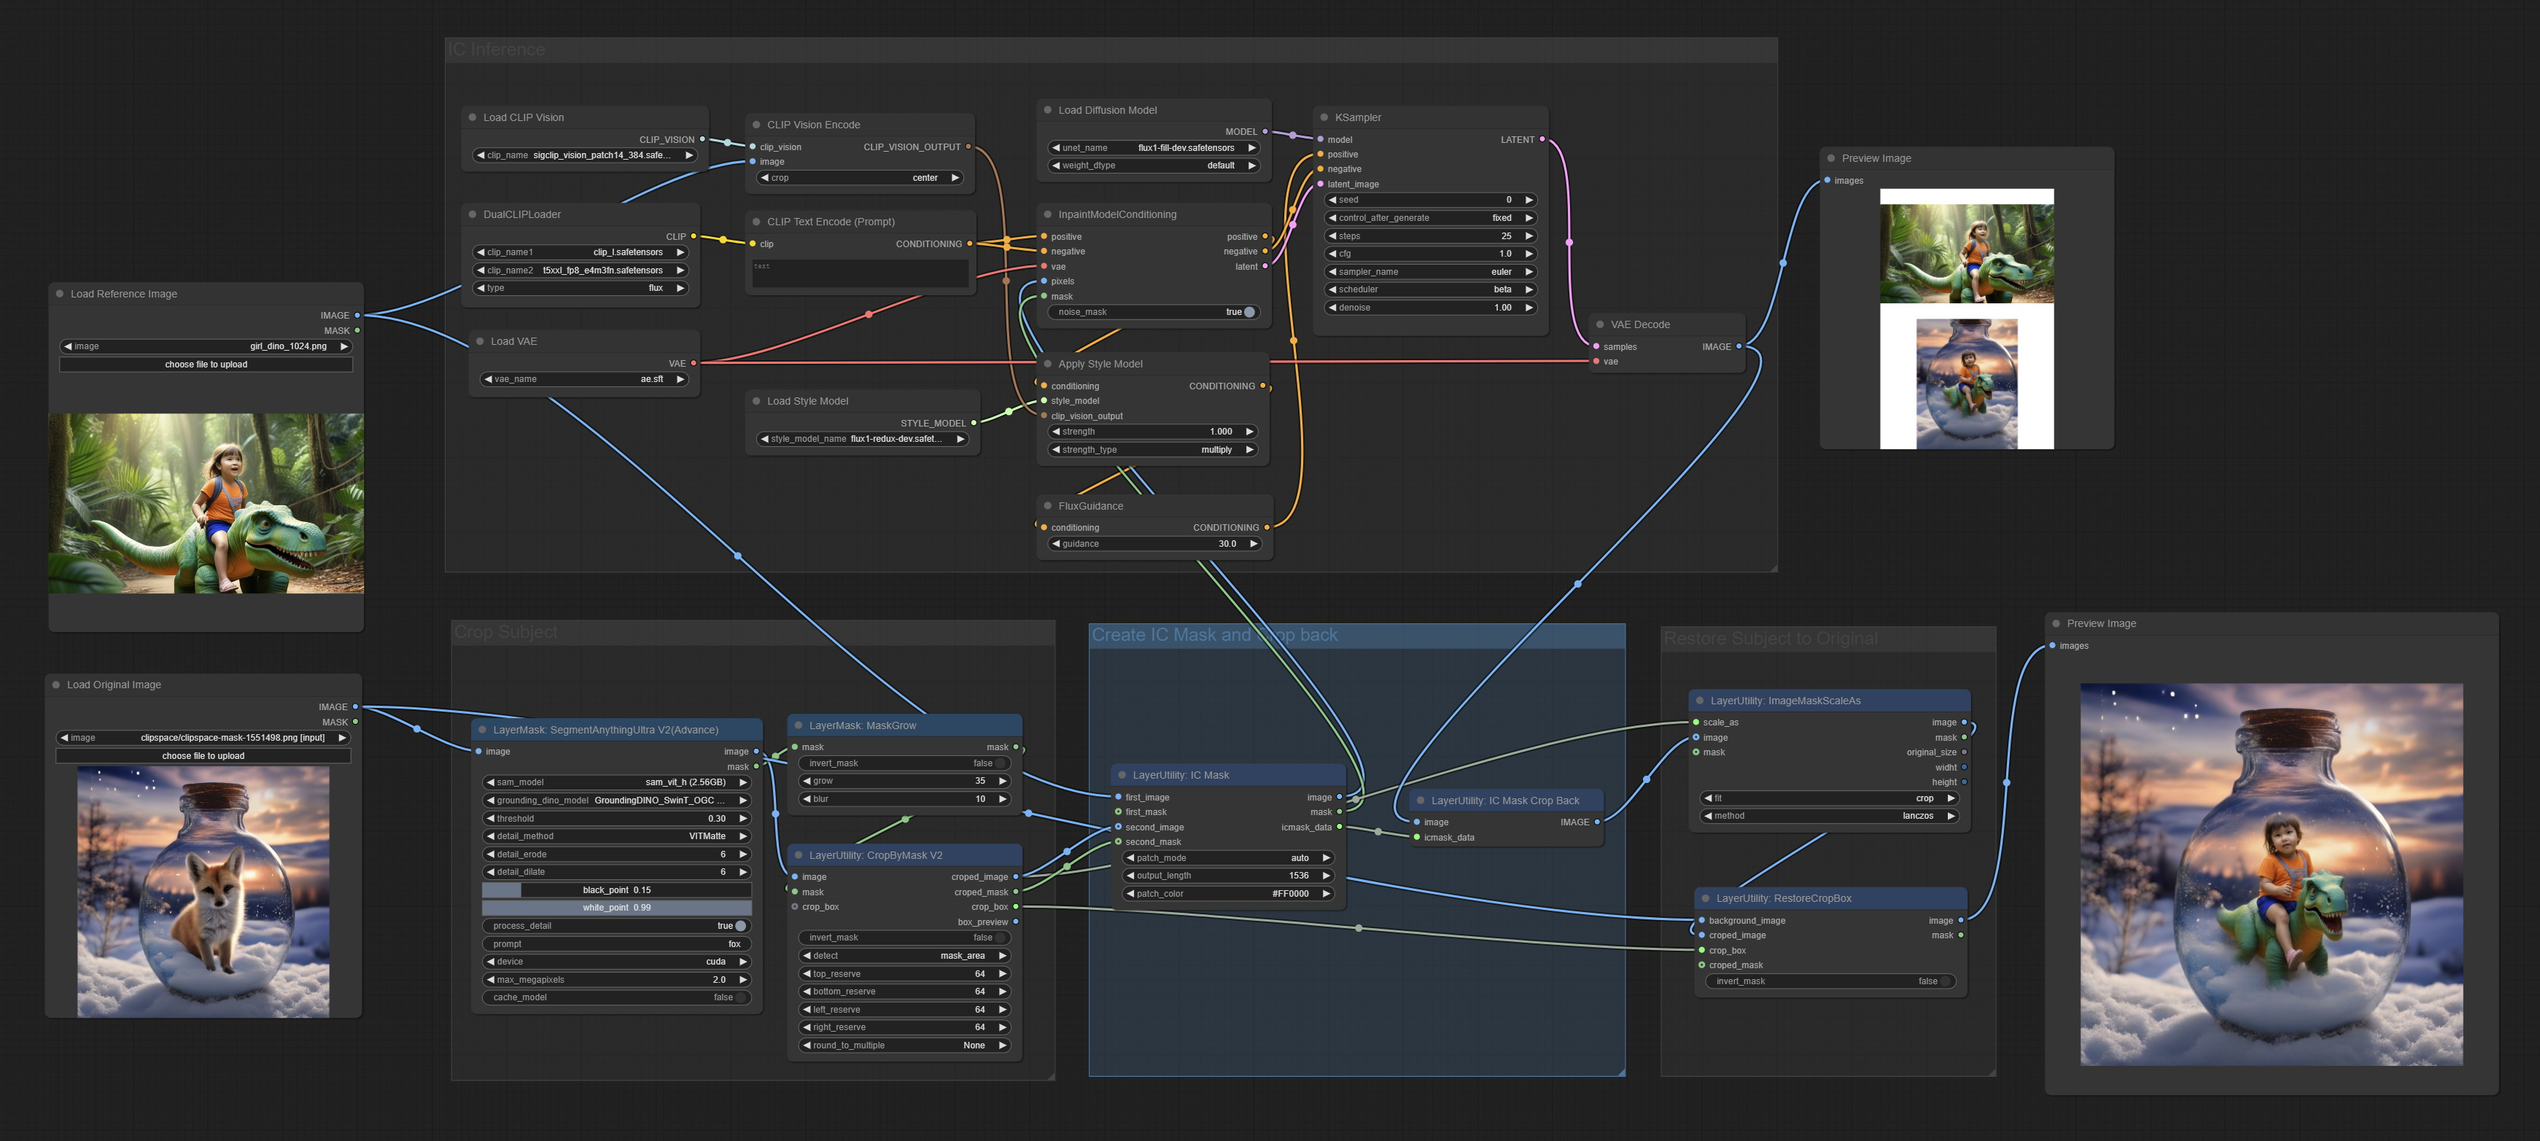
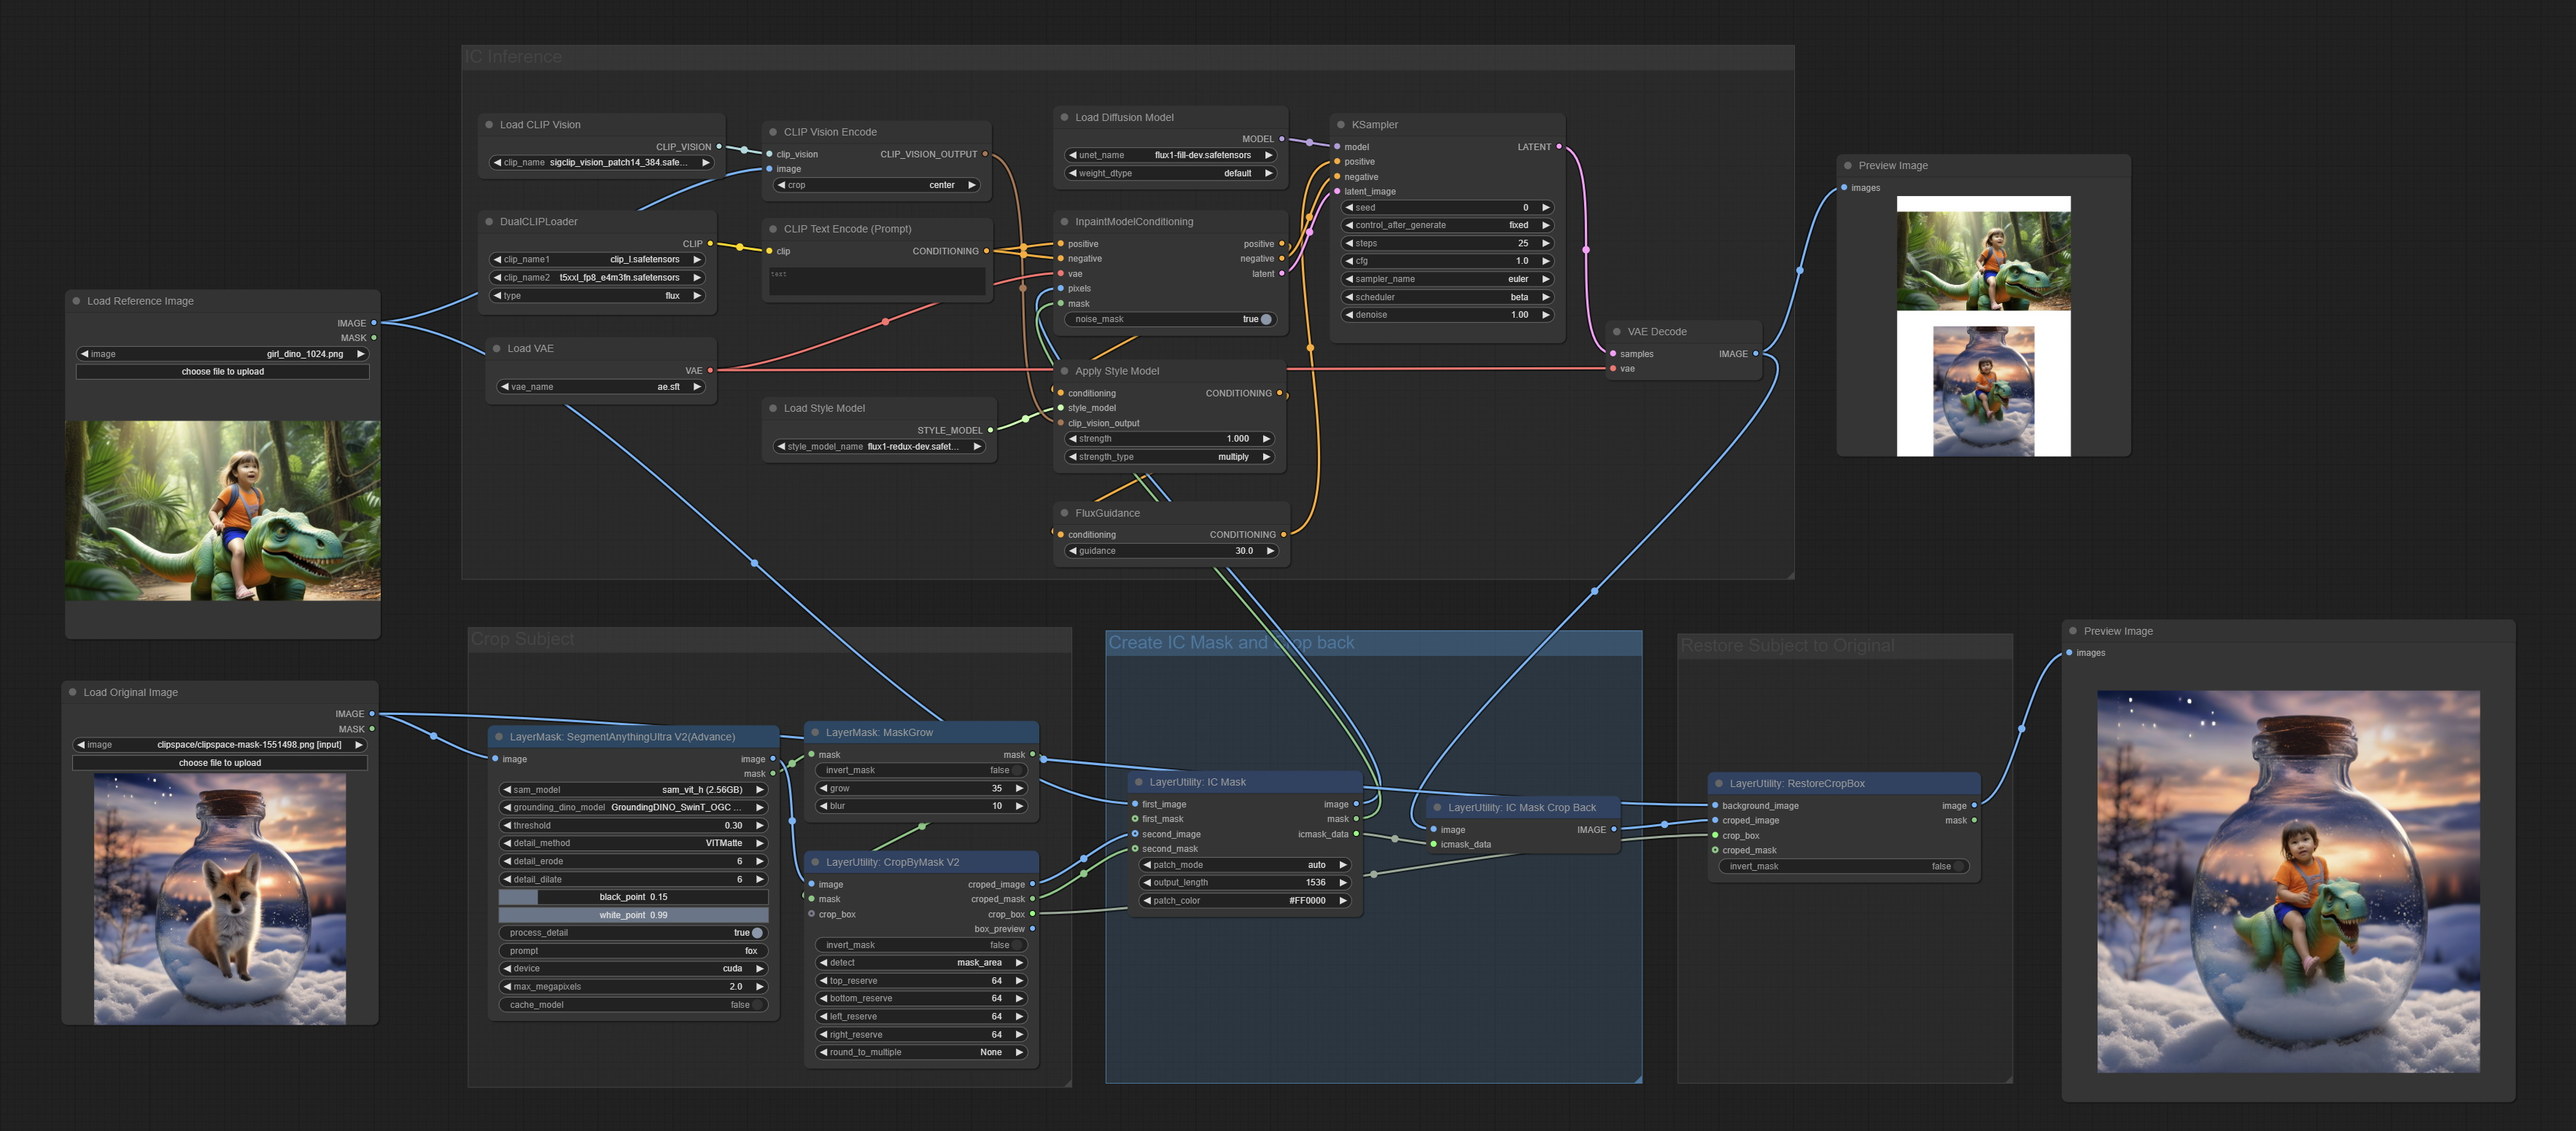
Merge crop and resize to ICMarkCropBack node

diff --git a/py/ic_mask.py b/py/ic_mask.py
@@ -4,7 +4,7 @@ import torch
 import numpy as np
 from PIL import Image
 import cv2
-from .imagefunc import log
+from .imagefunc import log, fit_resize_image, tensor2pil, pil2tensor
 
 
 def resize_img(img, resolution, interpolation=cv2.INTER_CUBIC):
@@ -27,7 +27,6 @@ def fit_image(image, mask=None, output_length=1536, patch_mode="auto"):
     if mask is not None:
         mask = mask.detach().cpu().numpy()
 
-    # print("np.all(mask == 0)",np.all(mask == 0))
     base_length = int(output_length / 3 * 2)
     half_length = int(output_length / 2)
     image_height, image_width, _ = image.shape
@@ -88,14 +87,25 @@ def fit_image(image, mask=None, output_length=1536, patch_mode="auto"):
 
     return resized_image, resized_mask, target_width, target_height, patch_mode
 
+def crop_and_scale_as(image:Image, size:tuple):
+
+        target_width, target_height = size
+        _image = Image.new('RGB', size=size, color='black')
+
+        ret_image = fit_resize_image(image, target_width, target_height, "crop", Image.LANCZOS)
+        return ret_image
+
+
 class ICMask_Data:
-    def __init__(self, x_offset, y_offset, target_width, target_height, total_width, total_height):
+    def __init__(self, x_offset, y_offset, target_width, target_height, total_width, total_height, orig_width, orig_height):
         self.x_offset = x_offset
         self.y_offset = y_offset
         self.target_width = target_width
         self.target_height = target_height
         self.total_width = total_width
         self.total_height = total_height
+        self.orig_width = orig_width
+        self.orig_height = orig_height
 
 
 class LS_ICMask:
@@ -131,7 +141,8 @@ class LS_ICMask:
 
     def ic_mask(self, first_image, patch_mode, output_length, patch_color, first_mask=None, second_image=None,
                  second_mask=None):
-
+        orig_width = 0
+        orig_height = 0
         if output_length % 64 != 0:
             output_length = output_length - (output_length % 64)
 
@@ -149,6 +160,8 @@ class LS_ICMask:
                 image2_mask = torch.zeros((image2.shape[0], image2.shape[1]))
             else:
                 image2_mask = second_mask[0]
+            orig_width = image2.shape[1]
+            orig_height = image2.shape[0]
             image2, image2_mask, _, _, _ = fit_image(image2, image2_mask, output_length, patch_mode)
         else:
             image2 = create_image_from_color(target_width, target_height, color=patch_color)
@@ -157,6 +170,8 @@ class LS_ICMask:
                 image2_mask = torch.zeros((image2.shape[0], image2.shape[1]))
             else:
                 image2_mask = second_mask[0]
+            orig_width = image2.shape[1]
+            orig_height = image2.shape[0]
             image2, image2_mask, _, _, _ = fit_image(image2, image2_mask, output_length)
 
         min_y = 0
@@ -183,7 +198,7 @@ class LS_ICMask:
 
         return_images = concatenated_image
         icmask_data = ICMask_Data(min_x, min_y, target_width, target_height, concatenated_image.shape[1],
-                                  concatenated_image.shape[0])
+                                  concatenated_image.shape[0], orig_width, orig_height)
 
         return (return_images, return_masks, icmask_data)
 
@@ -199,20 +214,24 @@ class LS_ICMask_CropBack:
                               "icmask_data": ("ICMASK_DATA",),
                               }}
     RETURN_TYPES = ("IMAGE",)
-    FUNCTION = "crop"
+    FUNCTION = "crop_back"
     CATEGORY = '😺dzNodes/LayerUtility'
 
-    def crop(self, image, icmask_data):
+    def crop_back(self, image, icmask_data):
         width = icmask_data.target_width
         height = icmask_data.target_height
         x = icmask_data.x_offset
         y = icmask_data.y_offset
+        orig_width = icmask_data.orig_width
+        orig_height = icmask_data.orig_height
         x = min(x, image.shape[2] - 1)
         y = min(y, image.shape[1] - 1)
         to_x = width + x
         to_y = height + y
         img = image[:,y:to_y, x:to_x, :]
-        return (img,)
+        pil_image = tensor2pil(img)
+        ret_image = crop_and_scale_as(pil_image, (orig_width, orig_height))
+        return (pil2tensor(ret_image,),)
 
 NODE_CLASS_MAPPINGS = {
     "LayerUtility: ICMask": LS_ICMask,
@@ -221,5 +240,5 @@ NODE_CLASS_MAPPINGS = {
 
 NODE_DISPLAY_NAME_MAPPINGS = {
     "LayerUtility: ICMask": "LayerUtility: IC Mask",
-    "LayerUtility: ICMaskCropBack": "LayerUtility: IC Mask Crop Back"
+    "LayerUtility: ICMaskCropBack": "LayerUtility: IC Mask Crop Back",
 }
